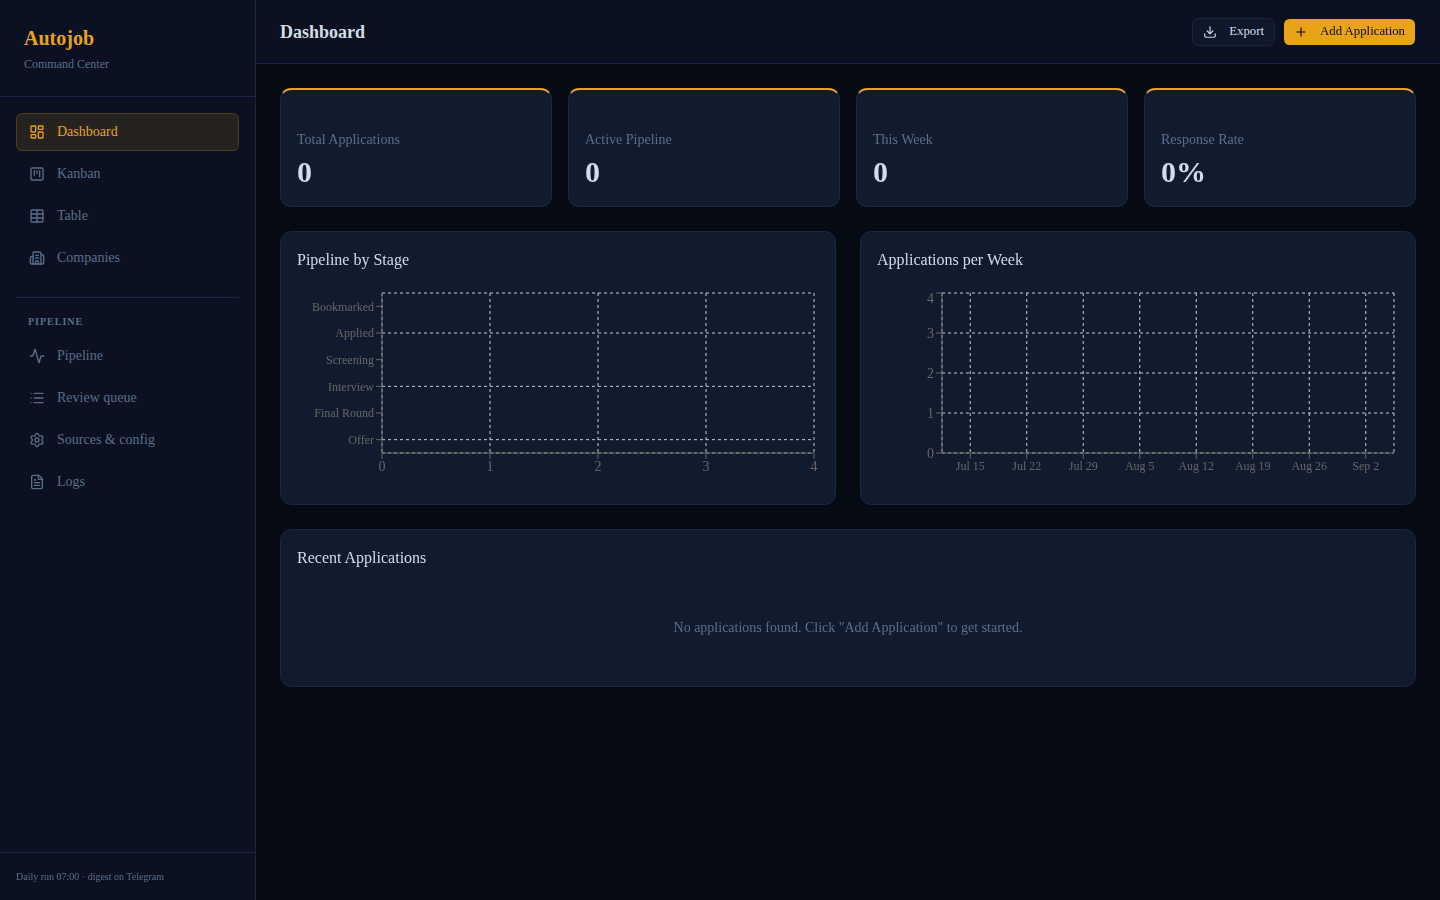
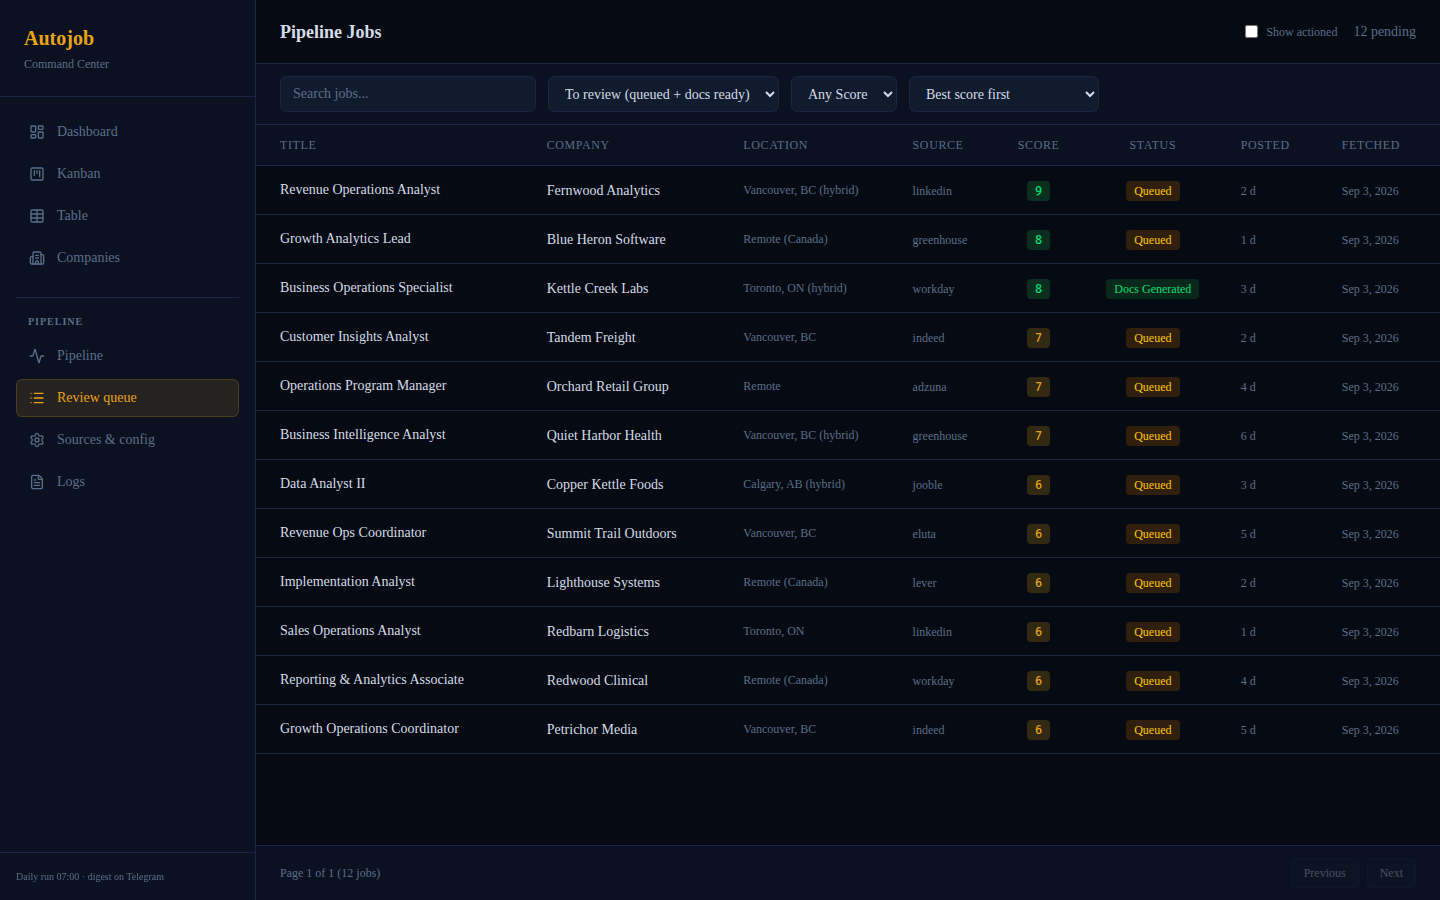
docs: process screenshots (found → matched → digest → review → track) on generic demo data

diff --git a/README.md b/README.md
@@ -6,13 +6,17 @@ Every morning at 07:00 the pipeline pulls postings from ~15 sources (job boards,
 
 **Why "Shortlist"?** Fifteen sources in, one ranked shortlist out — the whole product is the list you actually review.
 
-## Screenshots
+## The pipeline in action
 
-| Review queue | Pipeline health |
+| **① Found** — 15 sources → dedupe → prefilter | **② Matched** — scored 1–10 against the profile |
 |---|---|
-| ![Review queue](docs/img/review.png) | ![Pipeline runs](docs/img/pipeline.png) |
+| ![A pipeline run in the terminal: fetch, dedupe, prefilter, then per-job scores](docs/img/found.png) | ![Job detail: fit reasoning, strengths and gaps against the candidate profile](docs/img/match.png) |
+| **③ Digest** — one Telegram message per run | **④ Review** — apply / dismiss in the dashboard |
+| ![Telegram digest with the day's shortlist](docs/img/digest.png) | ![Review queue with scores, sources and statuses](docs/img/review.png) |
+| **⑤ Track** — applications through to offers | |
+| ![Kanban board from bookmarked to offer](docs/img/track.png) | |
 
-![Application tracker](docs/img/kanban.png)
+*All screenshots use generic demo data — no real postings, companies or personal info.*
 
 ## How it works
 
